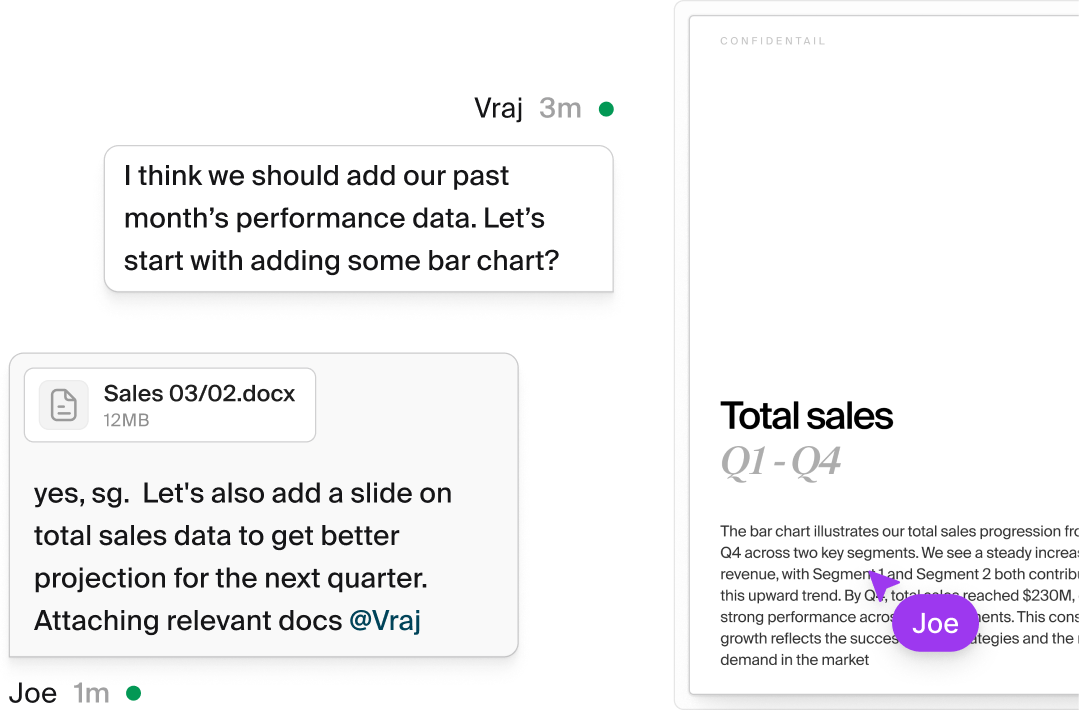
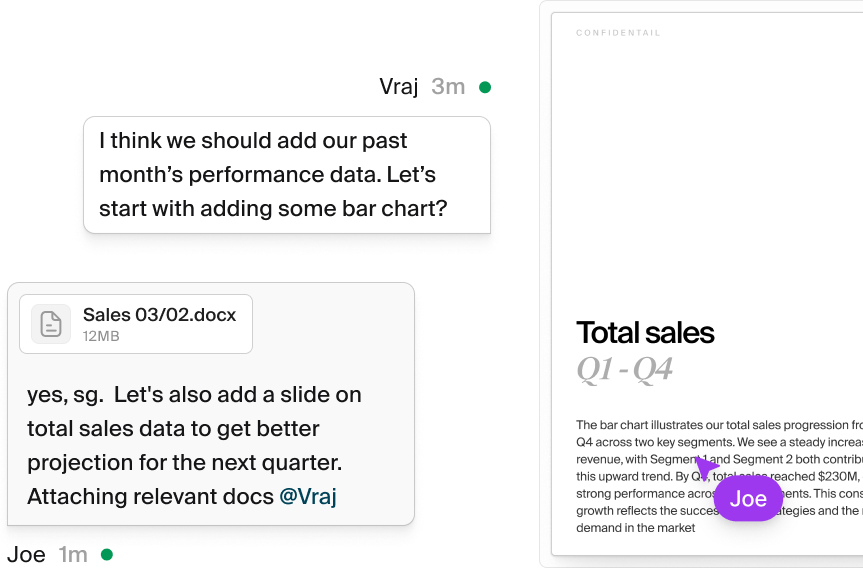
improved images resolution

diff --git a/src/components/megaMenuPage/AiWorkspace/AiWorkspaceSlider/AiWorkspaceSlider.module.scss b/src/components/megaMenuPage/AiWorkspace/AiWorkspaceSlider/AiWorkspaceSlider.module.scss
@@ -43,11 +43,11 @@
   flex-direction: column;
 
   border-radius: 4px;
-  padding: 40px 39px;
+  padding: 40px 0px;
   overflow: hidden;
   border: 0.5px solid rgba(21, 21, 23, 0.2);
 
-  @include m {
+  @include t {
     padding: 20px 0px;
   }
 }
@@ -79,17 +79,17 @@
 }
 
 .slideImg {
+  padding-left: 39px;
   margin-top: auto;
+  max-width: 100%;
+  height: auto;
 
   @include t {
     width: 100%;
     height: auto;
+    padding-left: 0px;
   }
-
-  @include t {
-    width: 100%;
-    height: auto;
-  }
+    
 }
 
 .slideImg2and5 {
@@ -122,4 +122,8 @@
     fill: #151515;
     fill-opacity: 0.24;
   }
+}
+
+.imageNoPadding {
+  padding-left: 0;
 }

diff --git a/src/components/megaMenuPage/AiWorkspace/slides/Slide3.tsx b/src/components/megaMenuPage/AiWorkspace/slides/Slide3.tsx
@@ -29,7 +29,7 @@ const Slide3 = () => {
         Context searches, summarizes, and organizes research from both your data and verified internet sources,
         delivering the right insights exactly when you need them.
       </p>
-      <Image className={s.slideImg} src={isTablet ? slideImageMobile : slideImage} alt="img"/>
+        <Image className={`${s.slideImg} ${s.imageNoPadding}`} src={isTablet ? slideImageMobile : slideImage} alt="img"/>
     </div>
   );
 };

diff --git a/src/components/megaMenuPage/AiWorkspace/slides/Slide4.tsx b/src/components/megaMenuPage/AiWorkspace/slides/Slide4.tsx
@@ -26,7 +26,7 @@ const Slide4 = () => {
         Draft reports, summaries, and business documents in seconds. Context extracts key insights, formats content, and
         ensures clarity and accuracy.
       </p>
-      <Image className={s.slideImg} src={isTablet ? slideImageMobile : slideImage} alt="img"/>
+      <Image className={`${s.slideImg} ${s.imageNoPadding}`} src={isTablet ? slideImageMobile : slideImage} alt="img"/>
     </div>
   );
 };

diff --git a/src/components/layout/Header/UseCasesSubmenu/BlockWithImage/BlockWithImage.tsx b/src/components/layout/Header/UseCasesSubmenu/BlockWithImage/BlockWithImage.tsx
@@ -12,7 +12,7 @@ const BlockWithImage = () => {
         </div>
         <button className={s.comingBtn}>Coming soon</button>
       </div>
-      <Image src={casesMenuPicture} alt="introduction"/>
+      <Image className={s.img} src={casesMenuPicture} alt="introduction"/>
       <div className={s.bottomBlock}>
         <div>
           <div className={s.learnHow}>Learn how to —</div>

diff --git a/src/components/layout/Header/UseCasesSubmenu/BlockWithImage/BlockWithImage.module.scss b/src/components/layout/Header/UseCasesSubmenu/BlockWithImage/BlockWithImage.module.scss
@@ -1,3 +1,8 @@
+.img {
+  max-width: 420px;
+  height: auto;
+}
+
 .header {
   display: flex;
   justify-content: space-between;  

diff --git a/src/components/megaMenuPage/MeetContext/AllYourWork/AllYourWork.module.scss b/src/components/megaMenuPage/MeetContext/AllYourWork/AllYourWork.module.scss
@@ -44,6 +44,7 @@
 
 .topImage {
   width: 100%;
+  height: auto;
   object-fit: contain;
   object-position: center;
 
